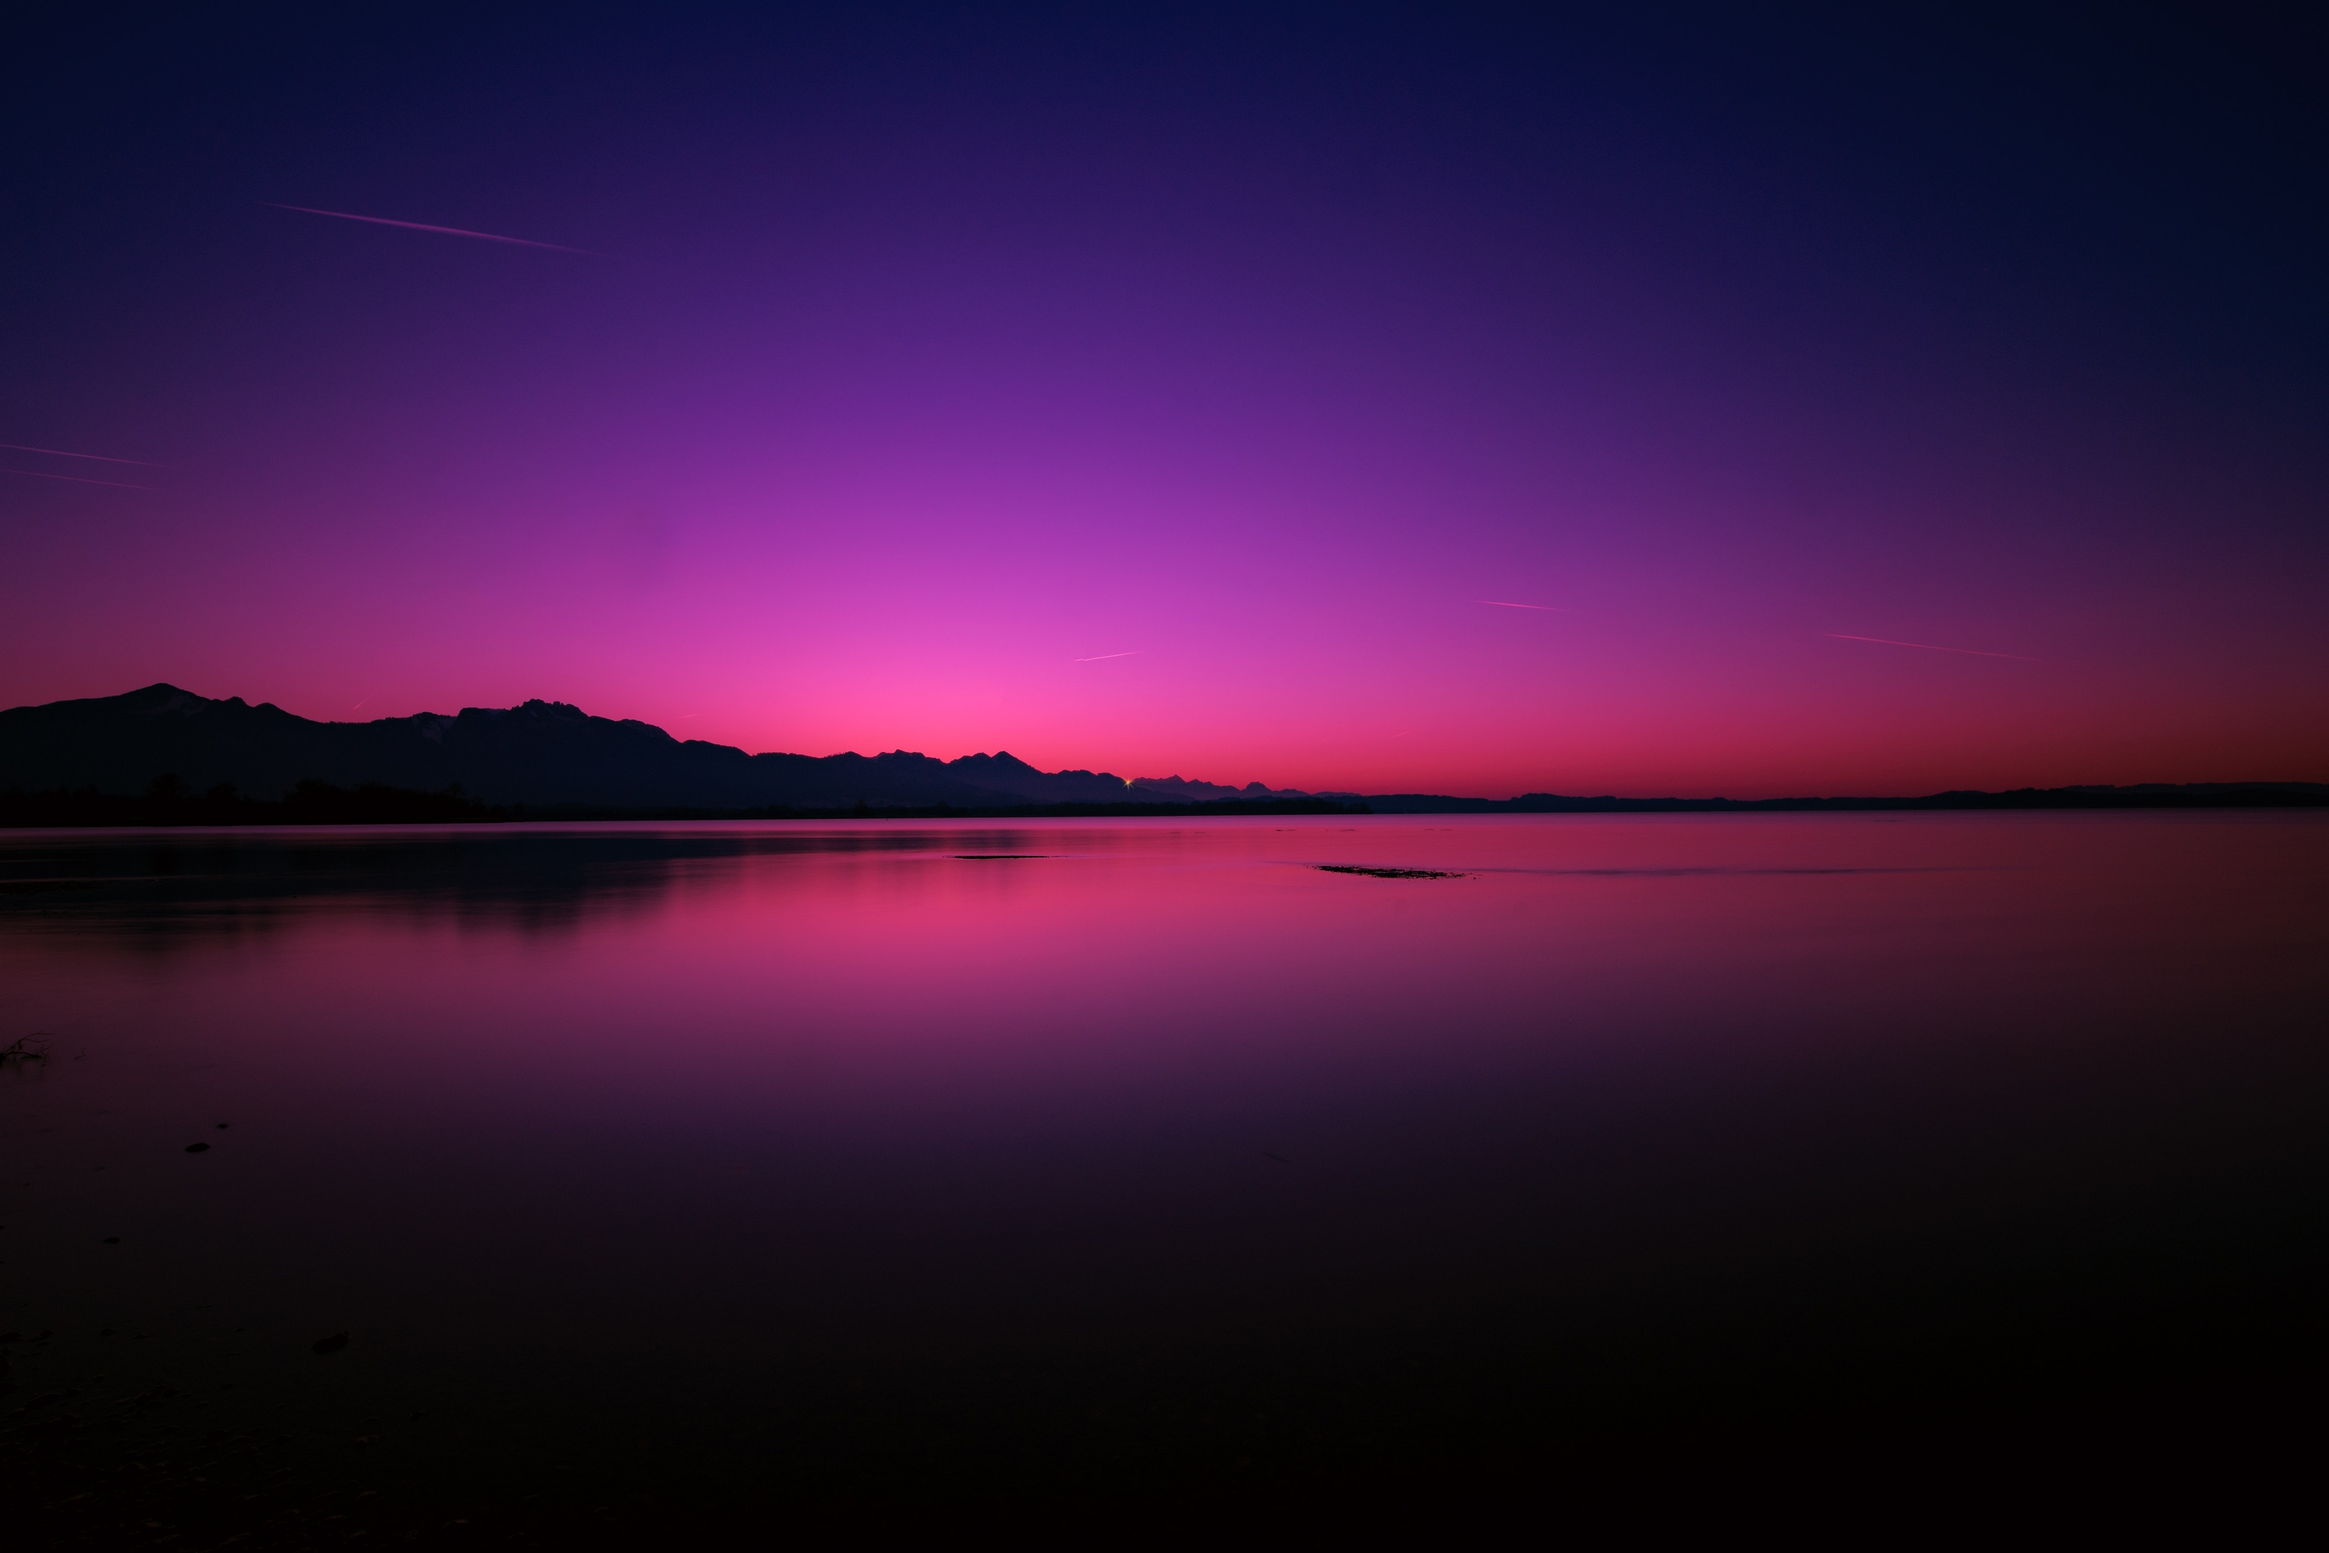
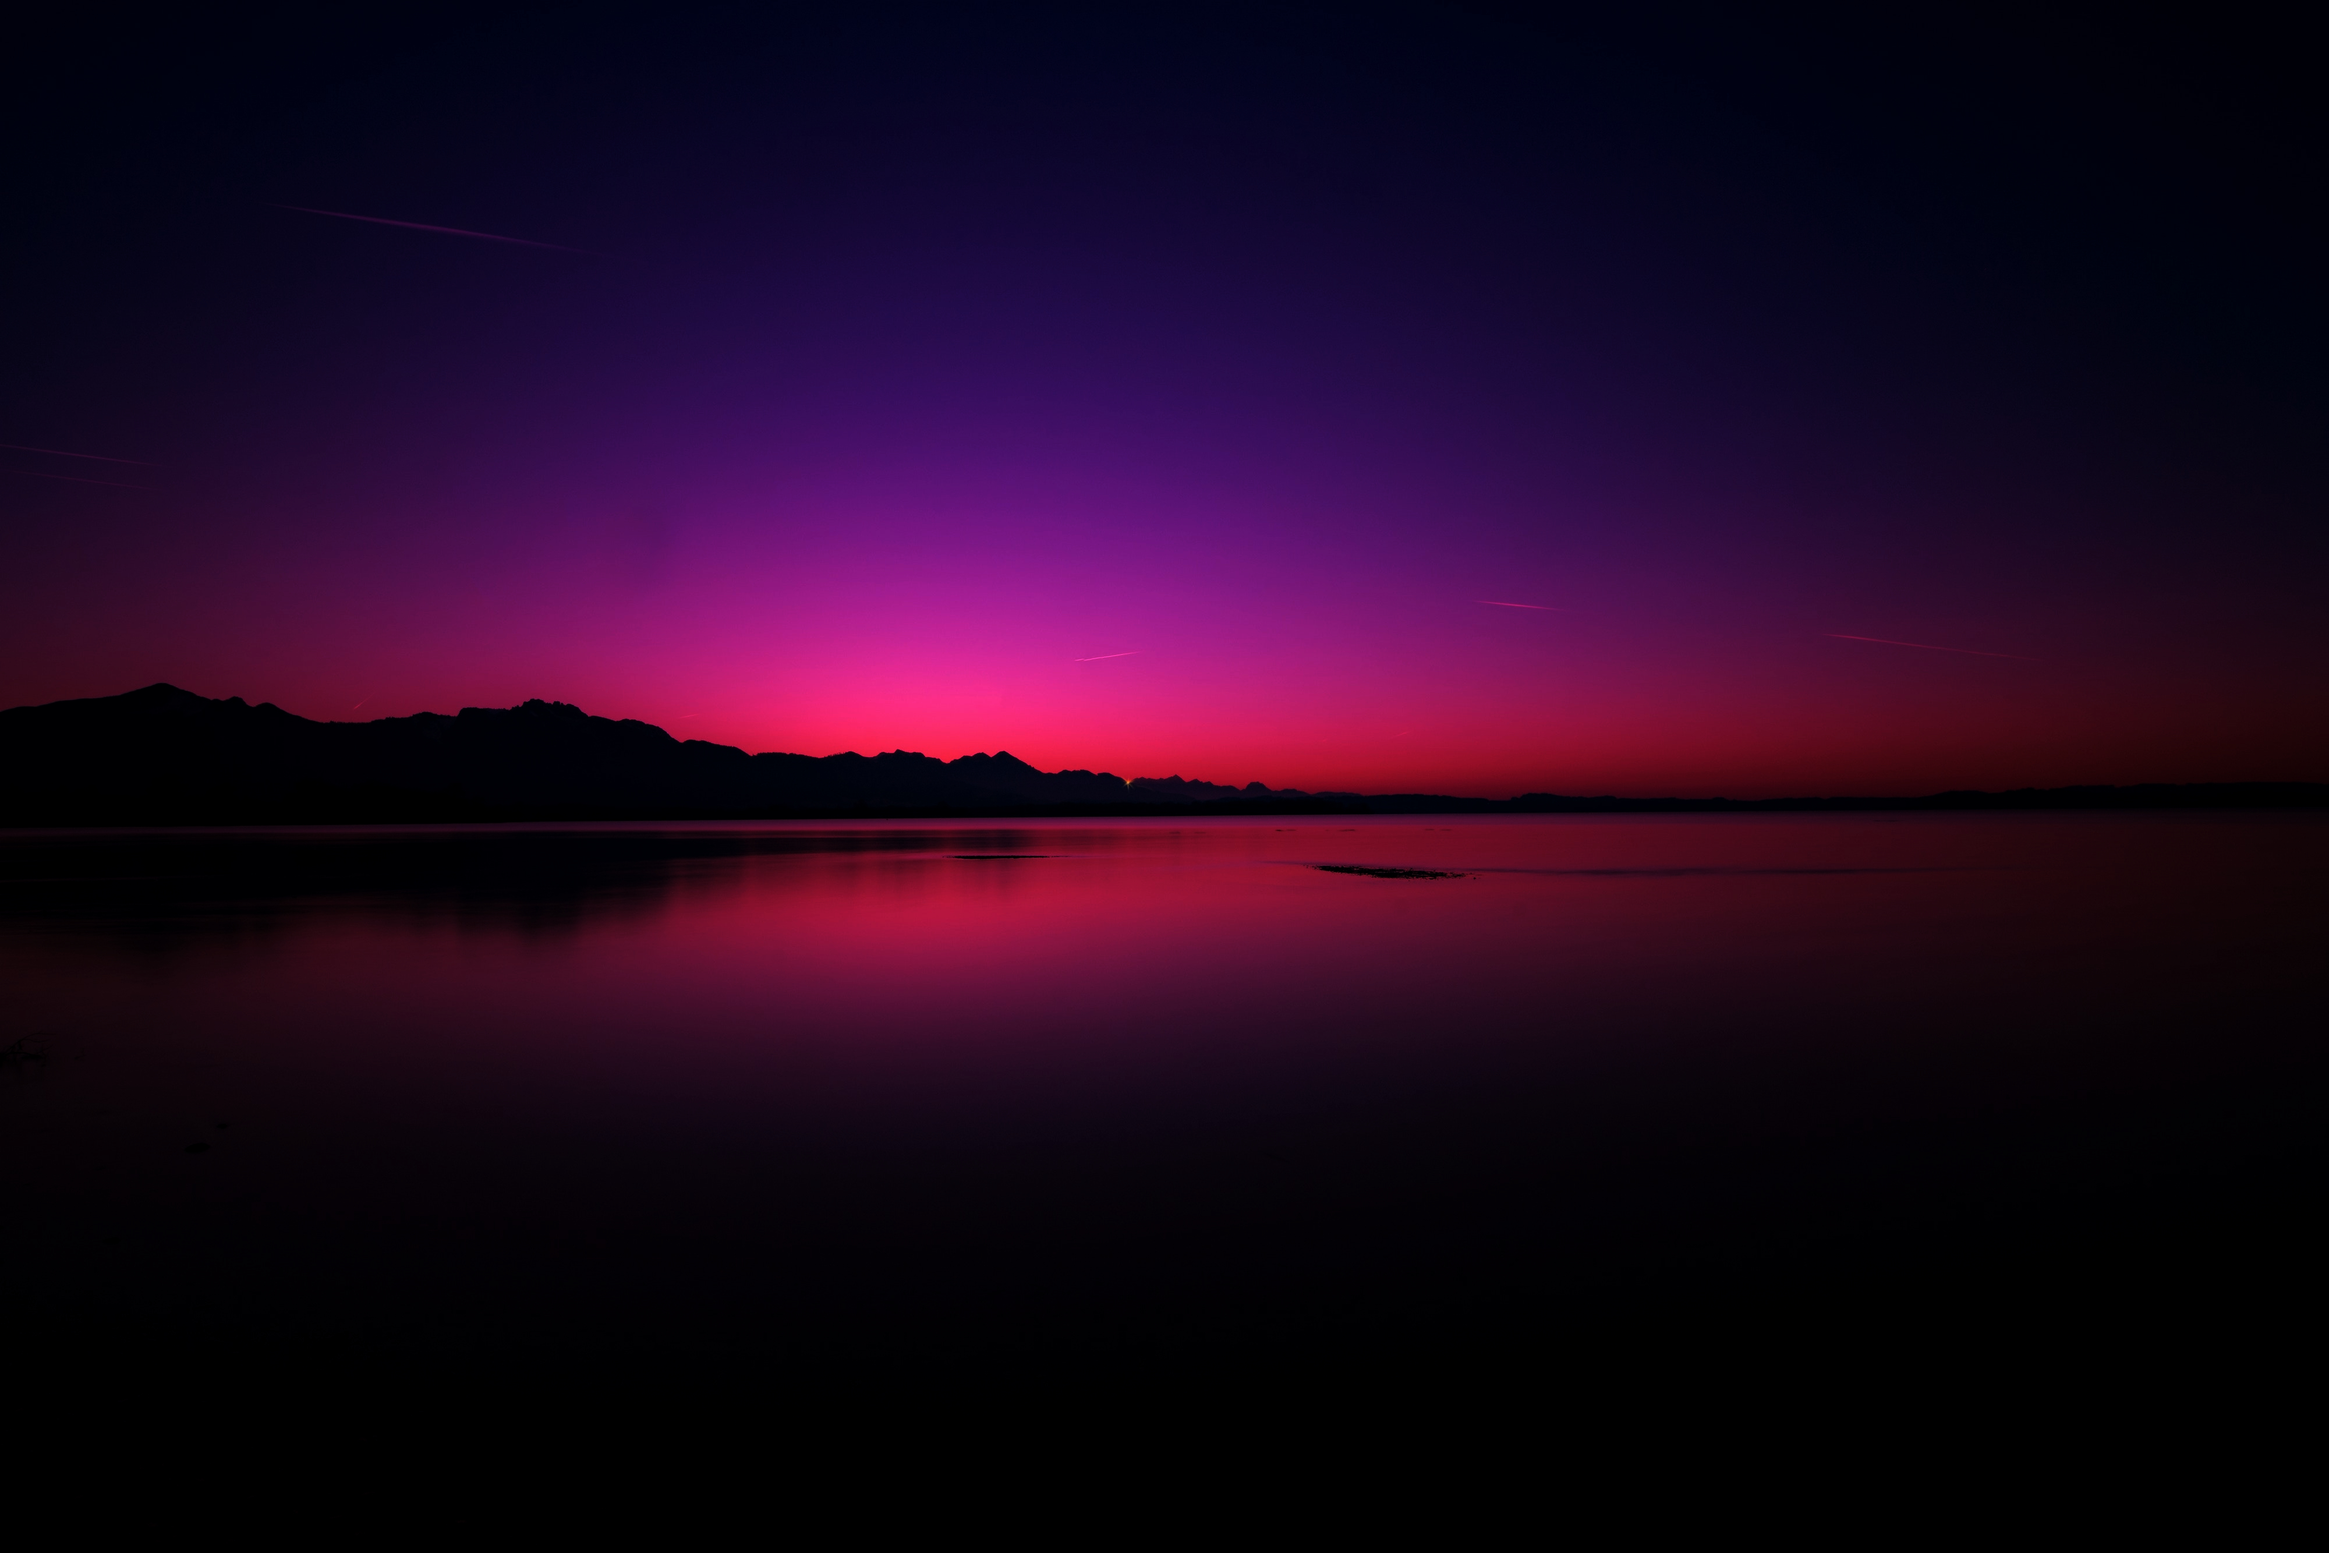
darken images

diff --git a/index.html b/index.html
@@ -179,11 +179,9 @@
 
     <!-- Footer -->
     <footer>
-        <!--
         <div class="container text-center">
-            <p>Copyright &copy; Napalú Psicología</p>
+            <p>&copy; Napalú Psicología</p>
         </div>
-        -->
     </footer>
 
 
